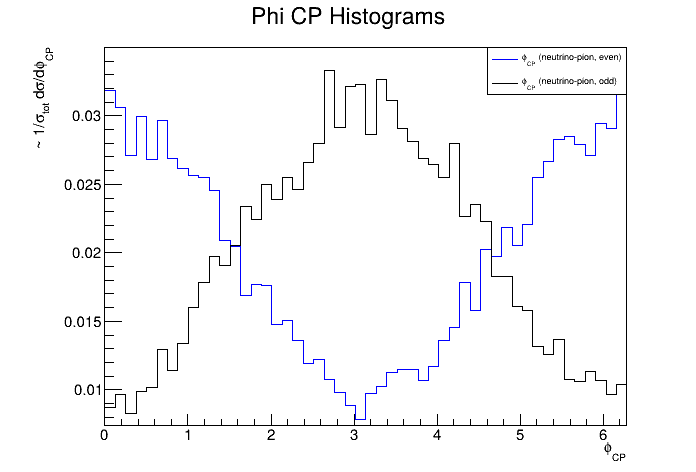
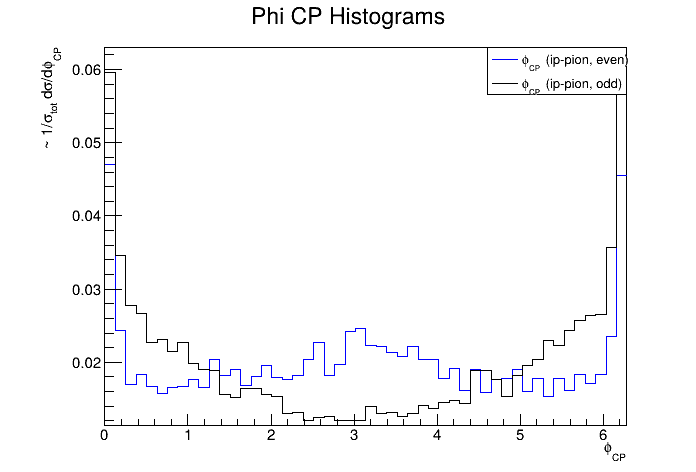
split into truth and detector level

diff --git a/source/MyAnalysis/MyAnalysis/DetectorLevelAnalysis.h b/source/MyAnalysis/MyAnalysis/DetectorLevelAnalysis.h
@@ -1,26 +1,26 @@
-#ifndef MyAnalysis_TruthLevelAnalysis_H
-#define MyAnalysis_TruthLevelAnalysis_H
+#ifndef MyAnalysis_DetectorLevelAnalysis_H
+#define MyAnalysis_DetectorLevelAnalysis_H
 
 #include "AsgMessaging/StatusCode.h"
 #include <AnaAlgorithm/AnaAlgorithm.h>
 #include <AsgMessaging/MessageCheck.h>
 #include <Math/GenVector/LorentzVector.h>
 #include <TH1.h>
-#include <TLorentzVector.h>
 #include <TTree.h>
 #include <TruthUtils/AtlasPID.h>
 #include <cmath>
 #include <xAODEventInfo/EventInfo.h>
+#include <xAODTruth/TruthEventContainer.h>
+#include <xAODTruth/TruthParticle.h>
+#include <xAODTruth/TruthParticleContainer.h>
 
-class TruthLevelAnalysis : public EL::AnaAlgorithm {
+class DetectorLevelAnalysis : public EL::AnaAlgorithm {
 private:
   double m_phiCP = 0.;
-  double m_phiCPNeutri = 0.;
-  double m_phiCPPion = 0.;
 
 public:
   // This is a standard algorithm constructor
-  TruthLevelAnalysis(const std::string &name, ISvcLocator *pSvcLocator);
+  DetectorLevelAnalysis(const std::string &name, ISvcLocator *pSvcLocator);
 
   // These are the functions inherited from Algorithm
   virtual StatusCode initialize() override;

diff --git a/source/MyAnalysis/share/ATestRun_eljob.py b/source/MyAnalysis/share/ATestRun_eljob.py
@@ -43,6 +43,15 @@ parser.add_argument(
     default=False,
     help="Enable debug output.",
 )
+parser.add_argument(
+    "-w",
+    "--which",
+    dest="which",
+    action="store",
+    type=str,
+    default="truth",
+    help="Which analysis to run: 'truth' for truth-level analysis, 'detector' for detector-level analysis.",
+)
 options = parser.parse_args()
 
 # Set up (Py)ROOT.
@@ -75,7 +84,12 @@ job.options().setString(ROOT.EL.Job.optSubmitDirMode, "unique-link")
 # Create the algorithm's configuration.
 from AnaAlgorithm.DualUseConfig import createAlgorithm
 
-alg = createAlgorithm("TruthLevelAnalysis", "AnalysisAlg")
+if options.which == "detector":
+    alg = createAlgorithm("DetectorLevelAnalysis", "AnalysisAlg")
+elif options.which == "truth":
+    alg = createAlgorithm("TruthLevelAnalysis", "AnalysisAlg")
+else:
+    raise ValueError("Invalid option for --which. Use 'truth' or 'detector'.")
 
 # Set the algorithm output level.
 if options.debug:

diff --git a/stuff_in_the_wrong_dir/script.py b/stuff_in_the_wrong_dir/script.py
@@ -6,10 +6,10 @@ file_odd = ROOT.TFile.Open("../run/cp-odd/hist-dataset.root")
 histograms = {
     # "#phi_{CP} (tau-pion, even)": file_even.Get("phi_CP_tau_pi"),
     # "#phi_{CP} (tau-pion, odd)": file_odd.Get("phi_CP_tau_pi"),
-    "#phi_{CP} (neutrino-pion, even)": file_even.Get("phi_CP_neutrino_pi"),
-    "#phi_{CP} (neutrino-pion, odd)": file_odd.Get("phi_CP_neutrino_pi"),
-    # "#phi_{CP} (ip-pion, even)": file_even.Get("phi_CP_pion"),
-    # "#phi_{CP} (ip-pion, odd)": file_odd.Get("phi_CP_pion"),
+    # "#phi_{CP} (neutrino-pion, even)": file_even.Get("phi_CP_neutrino_pi"),
+    # "#phi_{CP} (neutrino-pion, odd)": file_odd.Get("phi_CP_neutrino_pi"),
+    "#phi_{CP} (ip-pion, even)": file_even.Get("phi_CP_pion"),
+    "#phi_{CP} (ip-pion, odd)": file_odd.Get("phi_CP_pion"),
 }
 
 for name, hist in histograms.items():

diff --git a/source/MyAnalysis/MyAnalysis/MyAnalysisDict.h b/source/MyAnalysis/MyAnalysis/MyAnalysisDict.h
@@ -4,6 +4,7 @@
 // This file includes all the header files that you need to create
 // dictionaries for.
 
+#include <MyAnalysis/DetectorLevelAnalysis.h>
 #include <MyAnalysis/TruthLevelAnalysis.h>
 
 #endif
